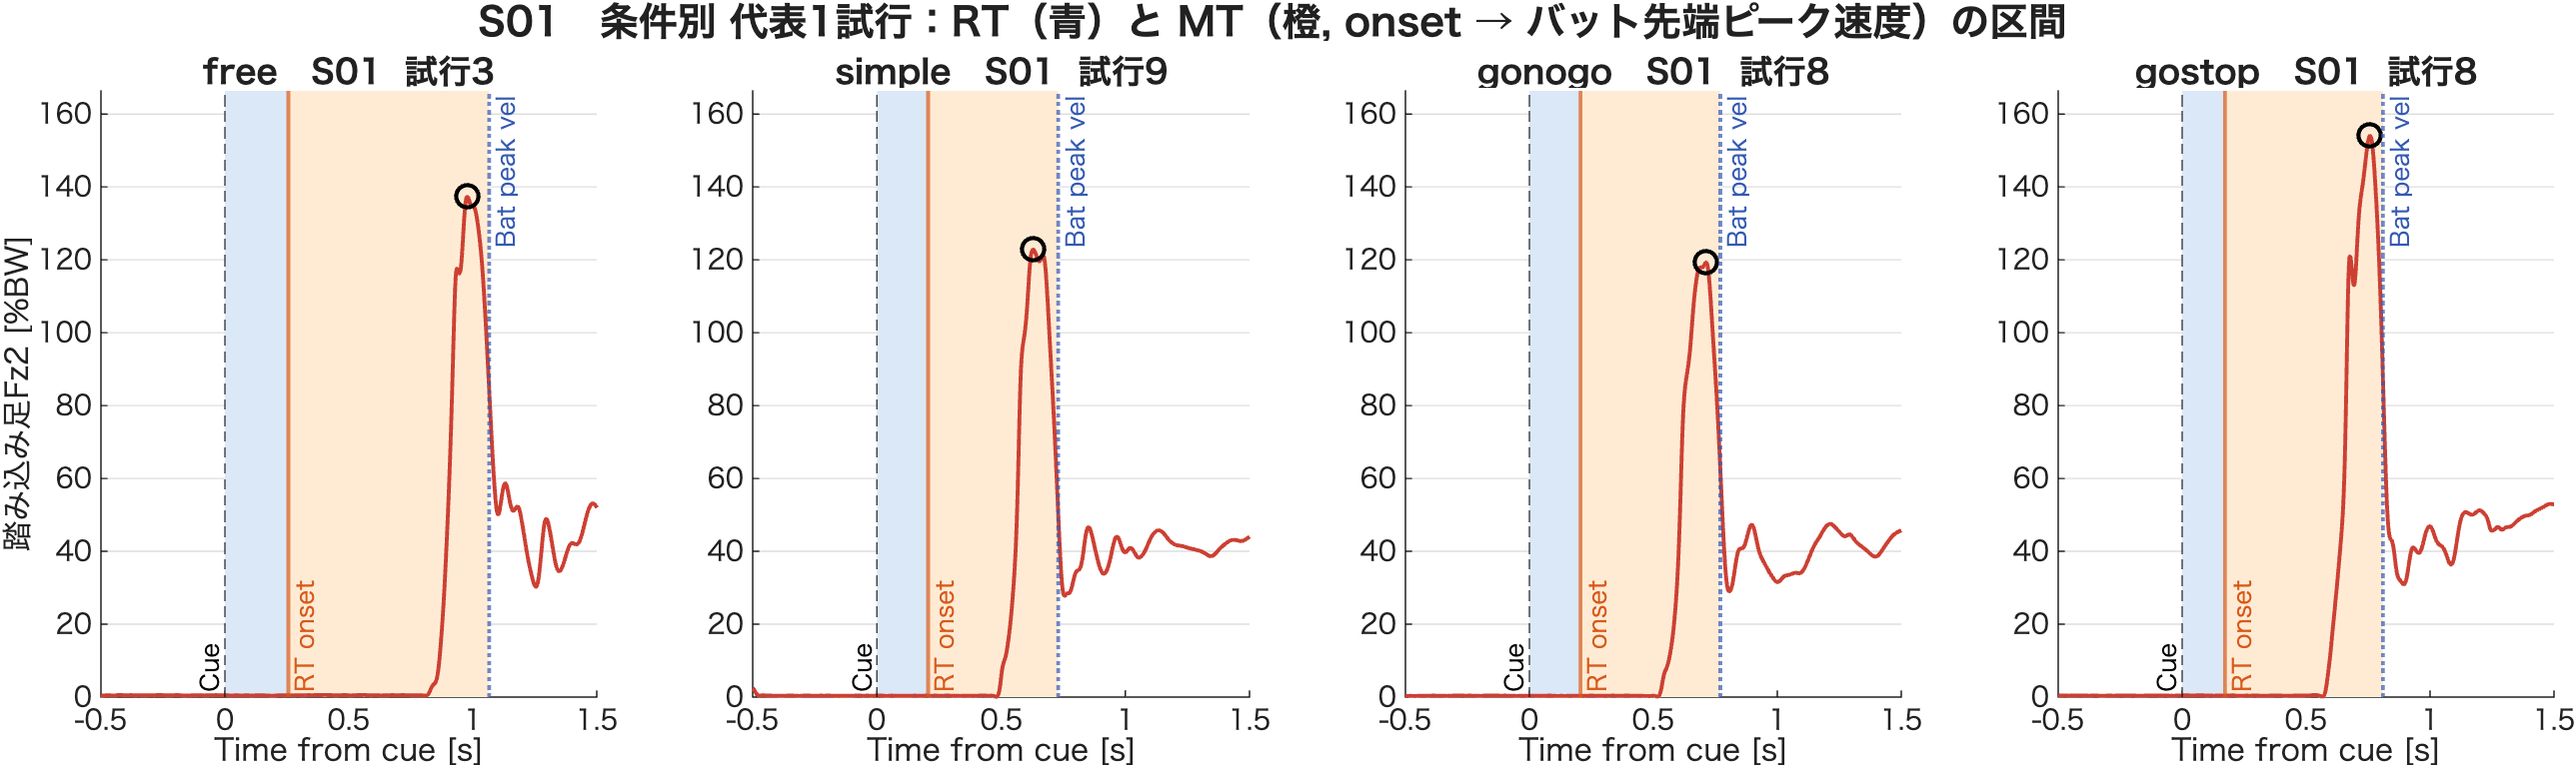
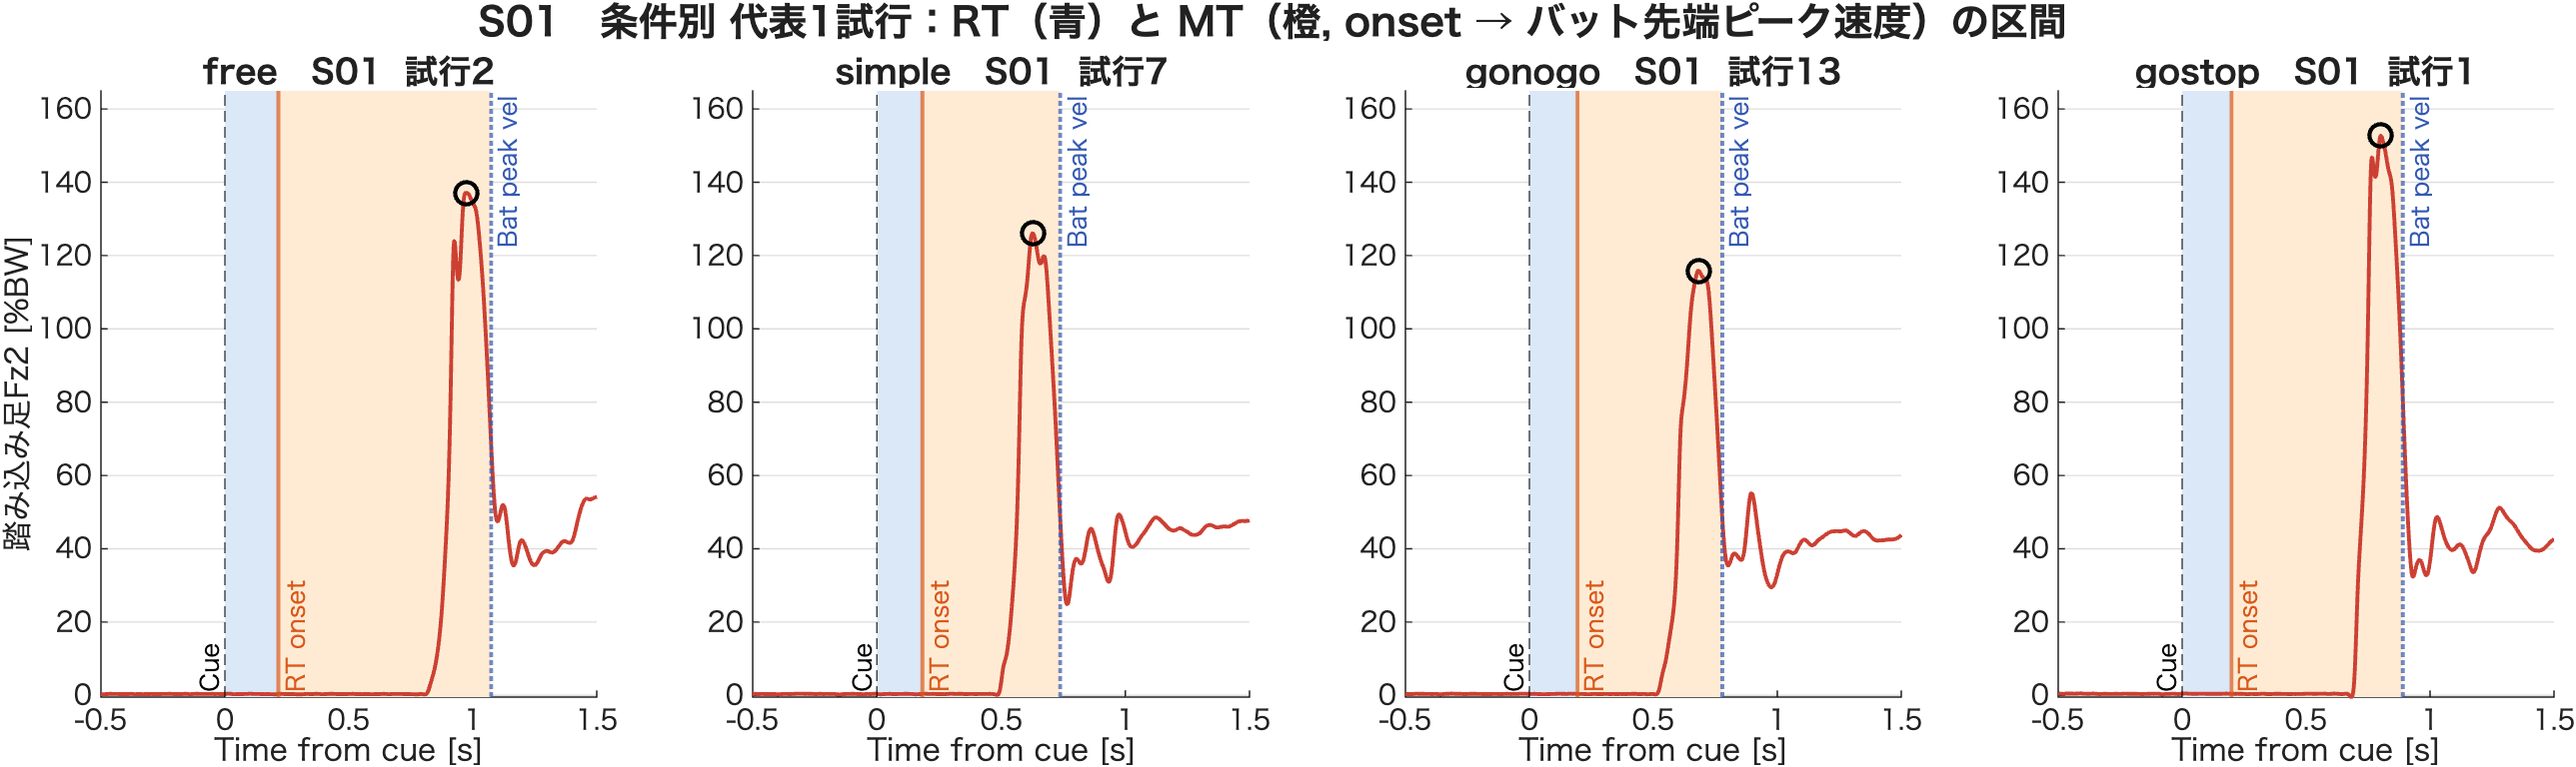
5.8 代表試行を中央値2番目に近い試行にし、i1 の個別グラフを出力
- i3: 冒頭に PickRank を追加（既定 2）。simple の代表（S05 試行12）が二峰性で
  ピークが読みにくかったため、中央値に2番目に近い試行を選ぶようにした。
  1 に戻せば従来の選び方に戻る。代表試行の PNG 6 枚を再出力
- i1: 描画したパネルを copyobj で1枚ずつの図に移し、個別グラフ/ に5枚書き出す
  §6 を新設。まとめ図と描画コードを共有するので両者がずれない
- log/2026-09-13_01.md を追加

diff --git a/Project002_反応時間課題バットスイング（加藤）/sandbox/5.8_踏み込み足Fzの立ち上がり/i1_plot_rfd_by_condition.m b/Project002_反応時間課題バットスイング（加藤）/sandbox/5.8_踏み込み足Fzの立ち上がり/i1_plot_rfd_by_condition.m
@@ -12,8 +12,10 @@
 %   i0_calc_rfd_metrics.m が作る V, BWest, MetricName,
 %   SubjectArray, ConditionNameArray, nS, nC, nM
 %
-% 出力:
-%   条件別_全被験者_Fz立ち上がり_新除外基準.png（このスクリプトと同じフォルダ）
+% 出力（このスクリプトと同じフォルダ）:
+%   条件別_全被験者_Fz立ち上がり_新除外基準.png ... 5指標を1枚にまとめた図
+%   個別グラフ/01_RT.png 〜 05_立ち上がり速度わりピーク力.png
+%     ... 同じパネルを指標ごとに1枚ずつ書き出したもの（スライドや原稿に貼る用）
 %
 % 備考:
 %   - 算出は i0 に分離した。指標の定義は i0 のヘッダを参照。
@@ -56,6 +58,13 @@ figH = topPad_px + axH_px*nRow + (rowPitch - axH_px)*(nRow-1) + botPad_px ;
 fig = figure('Color', 'w', 'Position', [80 80 1500 figH]) ;
 
 rng(0)   % ジッタを再現可能にする
+
+% ★ 個別 PNG は、描き終えたパネルを copyobj で新しい図に移して書き出す。
+%   同じ描画コードを2回書くと、片方だけ直して見た目がずれる。
+%   ファイル名は %・÷・→ を避けた別名にする（そのままだとパスに使えない）。
+AxList   = gobjects(1, nM) ;
+FileName = {'RT', 'ピーク鉛直GRF', 'OnsetからFzピークまでの時間', ...
+            '力の立ち上がり速度', '立ち上がり速度わりピーク力'} ;
 
 for im = 1:nM
 
@@ -141,6 +150,8 @@ for im = 1:nM
         'GridAlpha', 1, 'Layer', 'bottom', 'Box', 'off') ;
     title(ax, MetricName{im}, 'FontSize', 13, 'FontWeight', 'bold', ...
         'HorizontalAlignment', 'left', 'Units', 'normalized', 'Position', [0 1.13 0]) ;
+
+    AxList(im) = ax ;
 end
 
 annotation('textbox', [0 (figH-47.25)/figH 1 44.1/figH], 'String', ...
@@ -176,7 +187,26 @@ annotation('textbox', [0 8/figH 1 245/figH], 'String', ...
     'FontSize', 10, 'Color', [0.30 0.30 0.30], 'EdgeColor', 'none') ;
 
 
-%% ---- 6. PNG 出力 ----
+%% ---- 6. 指標ごとの個別 PNG ----
+
+% ★ 高さは上に 0.15 ぶん空ける。パネルのタイトルと中央値の数字は軸の外
+%   （normalized で 1.13、データ座標で yHi）に置いてあるので、詰めると切れる。
+outDir = fullfile(thisDir, '個別グラフ') ;
+if ~isfolder(outDir), mkdir(outDir) ; end
+
+for im = 1:nM
+    figOne = figure('Color', 'w', 'Position', [80 80 760 470], 'Visible', 'off') ;
+    axOne  = copyobj(AxList(im), figOne) ;
+    set(axOne, 'Position', [0.10 0.10 0.86 0.75]) ;
+
+    onePath = fullfile(outDir, sprintf('%02d_%s.png', im, FileName{im})) ;
+    exportgraphics(figOne, onePath, 'Resolution', 200) ;
+    fprintf('出力しました: %s\n', onePath) ;
+    close(figOne)
+end
+
+
+%% ---- 7. PNG 出力 ----
 
 outPath = fullfile(thisDir, '条件別_全被験者_Fz立ち上がり_新除外基準.png') ;
 exportgraphics(fig, outPath, 'Resolution', 200) ;

diff --git a/Project002_反応時間課題バットスイング（加藤）/sandbox/5.8_踏み込み足Fzの立ち上がり/i3_plot_example_trials.m b/Project002_反応時間課題バットスイング（加藤）/sandbox/5.8_踏み込み足Fzの立ち上がり/i3_plot_example_trials.m
@@ -55,6 +55,13 @@ thisDir = fileparts( mfilename('fullpath') ) ;
 
 PickSubject = [0, 1:nS] ;
 
+% ★ 中央値に何番目に近い試行を代表にするか（2026-09-13）。
+%   1 なら最も近い試行。2 にすると次に近い試行になる。
+%   simple の代表（S05 試行12）が二峰性でピークが読みにくかったため 2 にした。
+%   「中央値に近い」という選び方は変えずに順位だけずらすので、選定の理屈は
+%   そのまま説明できる。★ 4条件・全被験者ぶんに一律で効く。
+PickRank = 2 ;
+
 xLim     = [-0.5 1.5] ;     % cue からの表示範囲 [s]
 lastSub  = -1 ;             % 読み込み済みの .mat（同じものを何度も読まない）
 FigList  = gobjects(0) ;    % 出力する図。★ 全部描いてから、まとめて1回だけ確認する
@@ -91,9 +98,11 @@ for ip = 1:numel(PickSubject)
         %   混ぜると、縦軸をそろえた4枚組という図の読み方が崩れる。
         if isempty(idx), hasAll = false ; break, end
 
-        v       = [Rec(idx).rfd] ;
-        [~, k]  = min( abs(v - median(v)) ) ;
-        Sel(ic) = Rec(idx(k)) ;
+        % ★ 該当が PickRank より少ない条件では、いちばん遠い試行で打ち止めにする。
+        %   min を外すと添字が範囲外になって落ちる。
+        v        = [Rec(idx).rfd] ;
+        [~, ord] = sort( abs(v - median(v)) ) ;
+        Sel(ic)  = Rec( idx( ord(min(PickRank, numel(ord))) ) ) ;
     end
 
     if ~hasAll

diff --git a/Project002_反応時間課題バットスイング（加藤）/log/2026-09-13_01.md b/Project002_反応時間課題バットスイング（加藤）/log/2026-09-13_01.md
@@ -1,0 +1,92 @@
+作業日：2026-09-13
+
+ユーザー：加藤 和太郎（student）
+
+セッションの概要：
+
+**5.8 の図の見せ方を整えた短いセッション。** 2026-09-11 の続きで、指標の定義や
+除外基準には手を触れていない。変えたのは代表試行の選び方と、図の書き出し方の2点。
+
+- **代表試行を「中央値に2番目に近い試行」に変えた。** simple の代表（S05 試行12）が
+  二峰性でピークが読みにくかったため。選び方の理屈（中央値に近い試行）は変えずに
+  順位だけずらしたので、図の説明はそのまま通る。`i3` の冒頭に `PickRank` を置き、
+  1 に戻せば従来の選び方に戻る
+- **i1 の5指標を個別 PNG に書き出すようにした。** `個別グラフ/` に5枚。
+  2026-09-08（`a731465`）でも個別 PNG を作ったが、あれはまとめ図を余白で
+  切り出す方法で、その後 `h` 系の整理で消えていた。**今回は描き終えたパネルを
+  `copyobj` で新しい図に移してから書き出す**ようにした。解像度が落ちず、
+  描画コードが1つのままなので、まとめ図と個別図がずれない
+
+備考（未解決課題など）：
+
+**このセッションで気づいたこと**
+
+- **`PickRank = 2` にしたら、全被験者の図は4パネル中3つが S02 になった。**
+  条件差を見る図としては被験者が偏っている。気になる場合は `PickRank` を
+  条件ごとに変えられるようにする余地がある（被験者ごとの5枚には影響しない）
+
+**2026-09-11 から持ち越している課題**
+
+1. **`i0` の Go 判定が 5.6 と違う。** `i0` は LED から自前で判定し、`p0` は `x4` の
+   `CueText` を使う。判定の二重実装なので揃えたほうがよい
+2. **`技術説明.md` §（704 行あたり）の記述が古い。** 2026-09-11 にピークを
+   onset のゲートの後ろに移したので、`g0` との n の差についての記述が合わない
+3. **S02 gostop 試行2 の Fz2 がゼロ点ずれの疑い。** cue 前から −50 %BW あたりに
+   張り付き、スイング後も負のまま
+4. **`i4` の新指標は条件差より個人差が大きい。** 被験者内での正規化か、
+   Fz ピークとの比にすることを検討
+
+**student ロールの扱いについて**
+
+CLAUDE.md では student ロールのとき AI は修正案の提示だけを行い `.m` は更新しない
+ことになっているが、2026-09-11 のユーザーの指示に続けて、このセッションでも
+AI が直接更新した。
+
+---
+
+## AIとの個別のやり取り
+
+### 1. 代表試行の変更
+
+**指示・質問：**
+（simple S05 試行12 のパネルの画像とともに）この代表試行を変更したい
+
+**AIの対応：**
+選び方をどう変えるかを尋ね、「中央値に2番目に近い試行にする」が選ばれたので反映した。
+
+**決定事項・結果：**
+
+- `i3_plot_example_trials.m` の冒頭に `PickRank` を追加（既定 2）。
+  `min(abs(v - median(v)))` を `sort` に変え、`ord(min(PickRank, numel(ord)))` で選ぶ。
+  該当が `PickRank` より少ない条件では、いちばん遠い試行で打ち止めにしている
+  （`min` を外すと添字が範囲外になって落ちる）
+- 代表試行の入れ替わり
+
+  | 条件 | 旧 | 新 |
+  |---|---|---|
+  | free | S03 試行13 | S02 試行13 |
+  | simple | S05 試行12 | S05 試行15 |
+  | gonogo | S01 試行8 | S02 試行1 |
+  | gostop | S01 試行1 | S02 試行13 |
+
+- `代表試行_波形確認_新除外基準.png` と被験者ごとの5枚を再出力
+
+---
+
+### 2. まとめ図の個別グラフ化
+
+**指示・質問：**
+（条件別_全被験者_Fz立ち上がり_新除外基準.png とともに）これの個別グラフを作成してください
+
+**AIの対応：**
+`i1_plot_rfd_by_condition.m` に §6 を新設し、描画ループで各パネルの軸ハンドルを
+`AxList` に貯めておいて、`copyobj` で1枚ずつの図に移して書き出すようにした。
+
+**決定事項・結果：**
+
+- `個別グラフ/01_RT.png` 〜 `05_立ち上がり速度わりピーク力.png` の5枚
+- ファイル名は `%`・`÷`・`→` がパスに使えないので別名にした（図中の表記は元のまま）
+- 個別図の軸は `Position [0.10 0.10 0.86 0.75]`。上に 0.15 空けているのは、
+  パネルのタイトル（normalized 1.13）と中央値の数字（データ座標 yHi）が
+  軸の外に置いてあるため。詰めると切れる
+- `i1` を実行すれば、まとめ図と個別5枚が毎回そろって更新される
